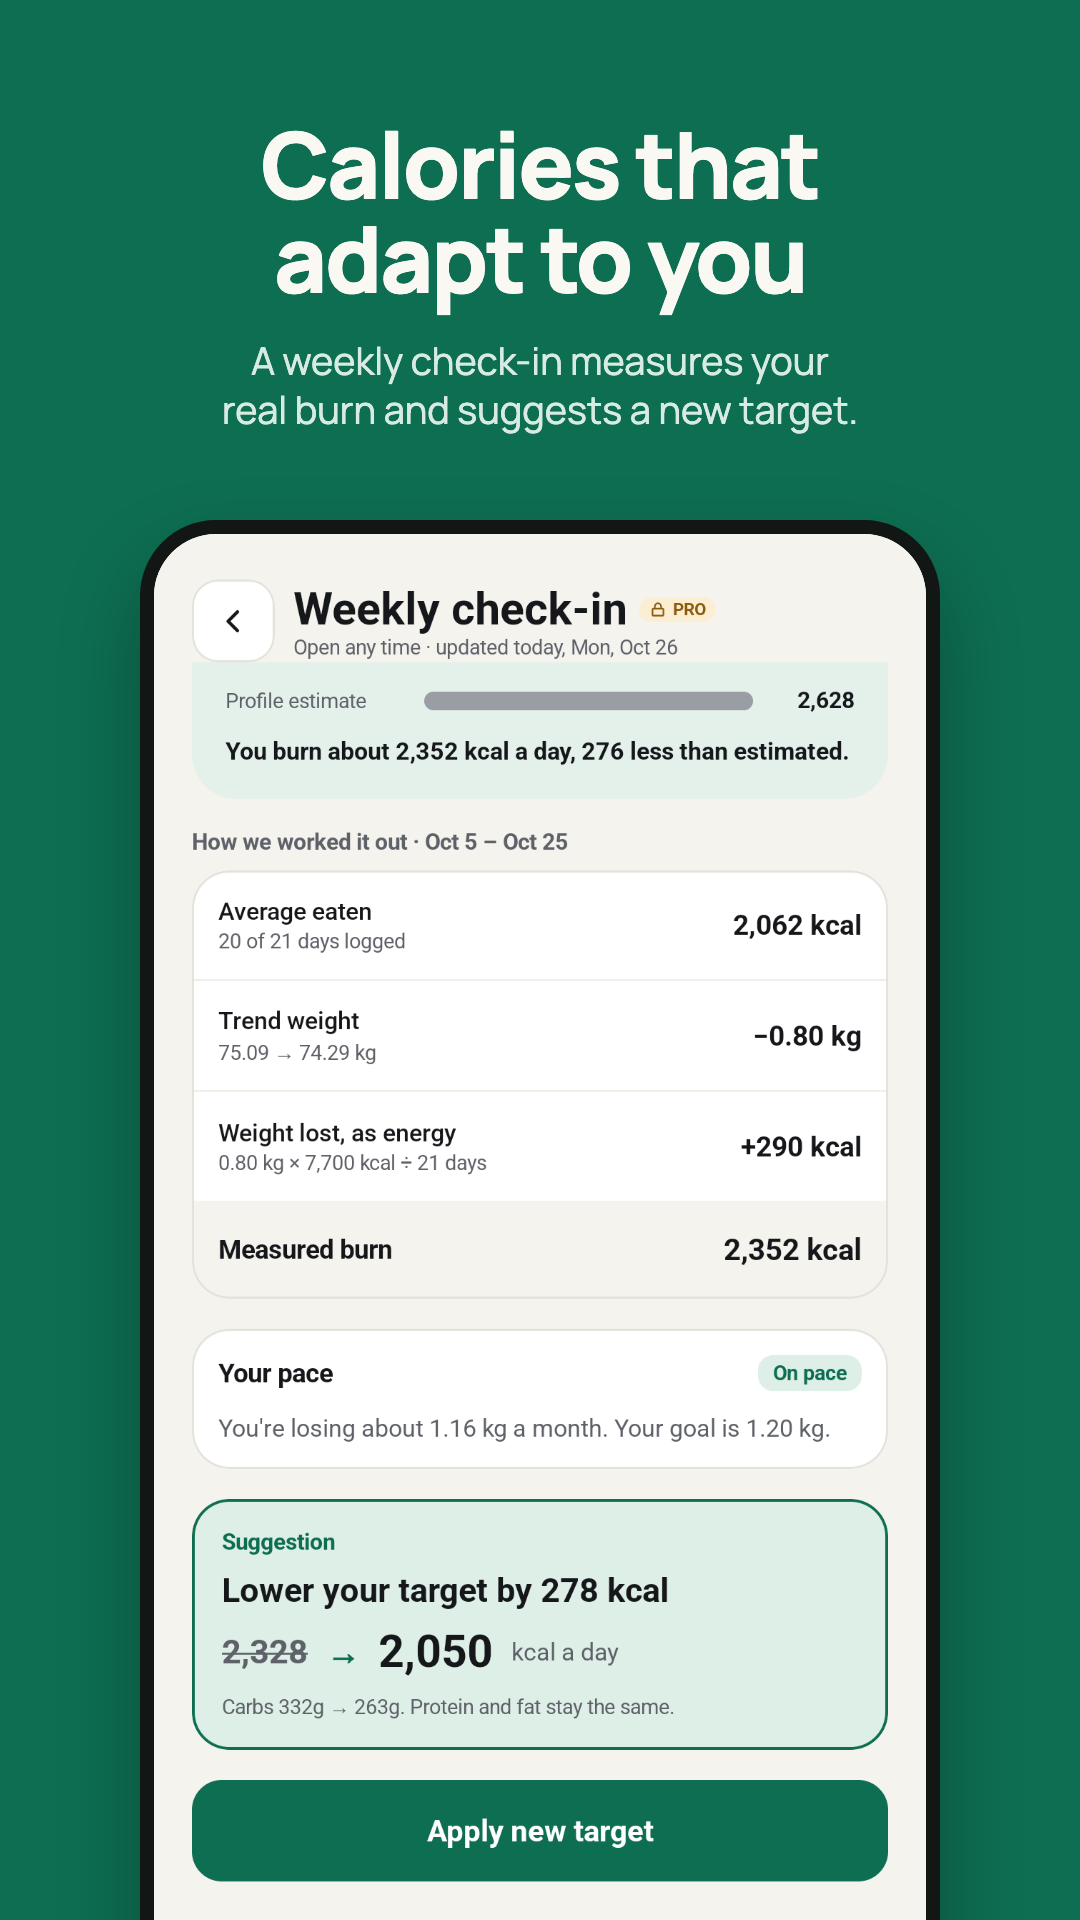
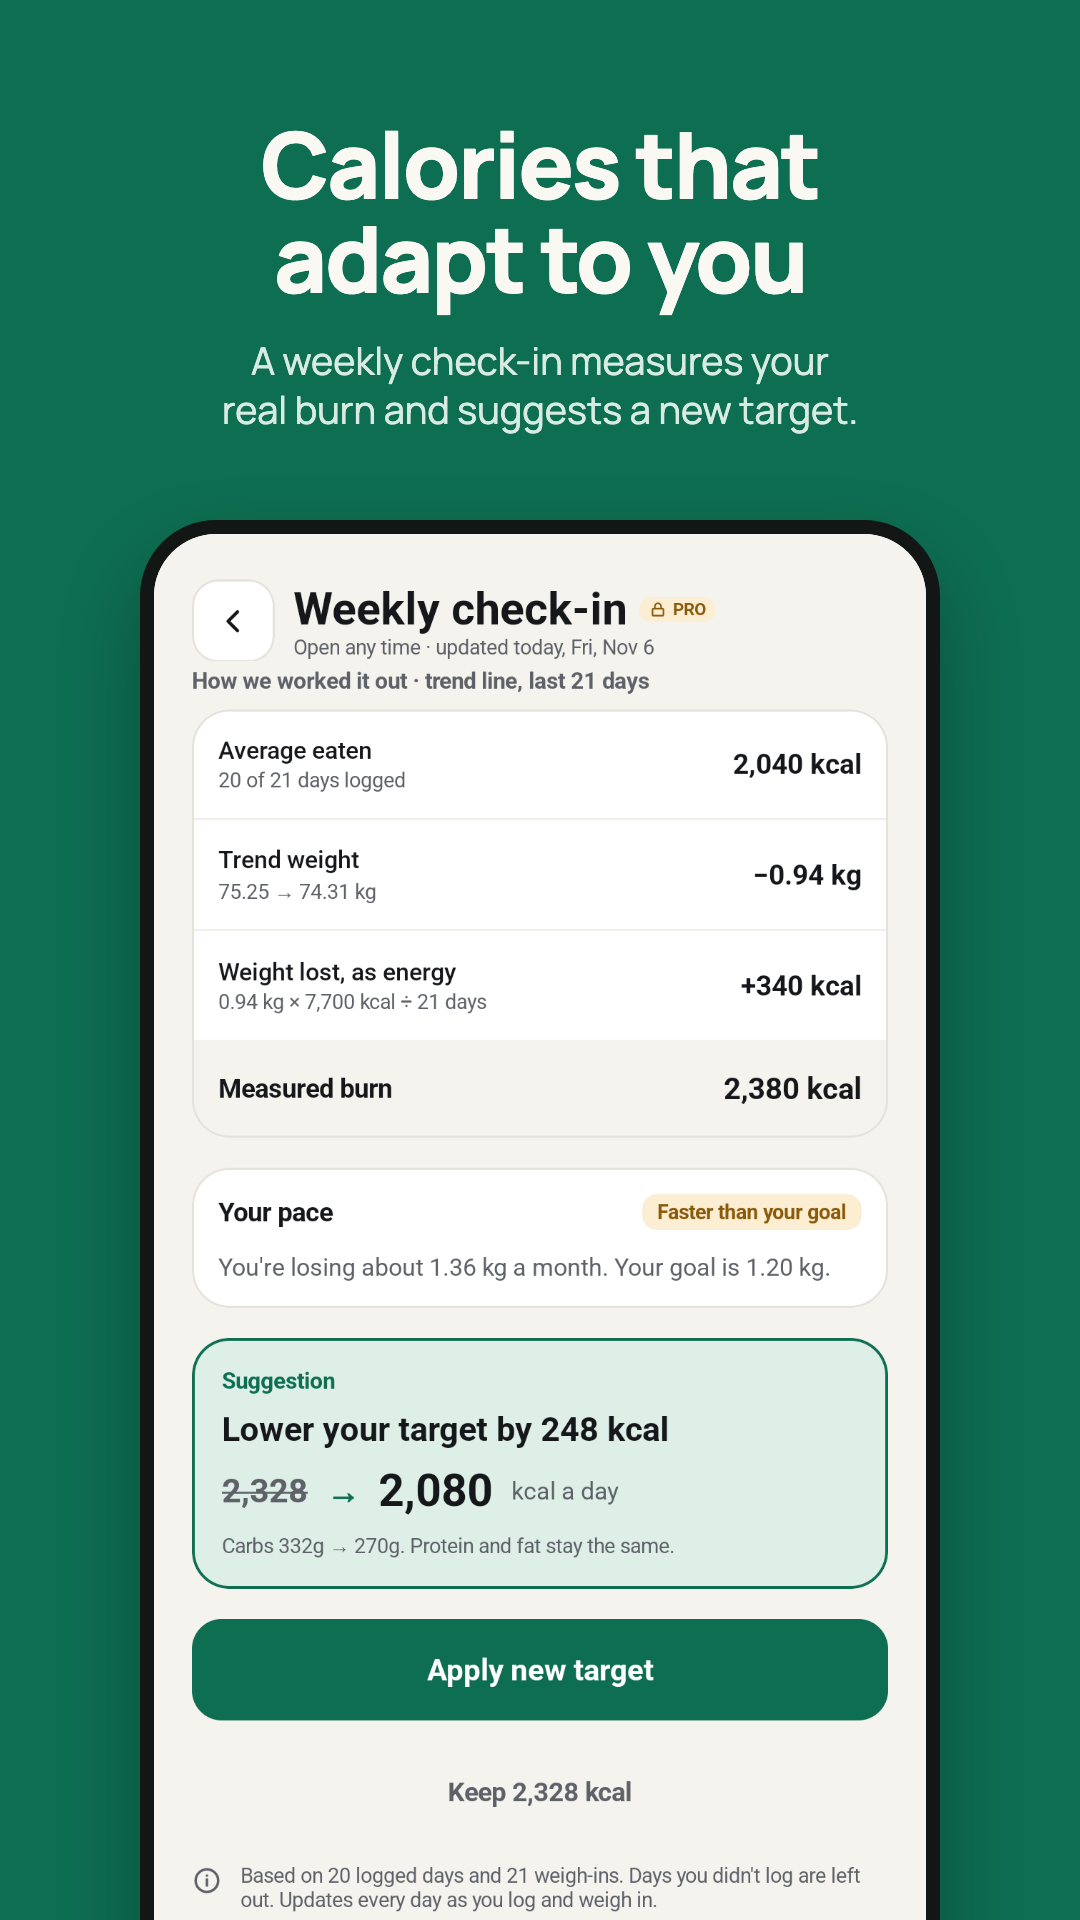
update Play Store listing description, release notes, and screenshots
- Update short and full descriptions in `listing.md` to highlight new features, including Next-day weight, Goal forecast, What fits?, widgets, and habits tracking.
- Add screenshot upload order guidelines to `listing.md`.
- Add release notes entry for updates since version 1.2.1.
- Replace old Play Store screenshot assets with updated app screens.

Changed region(s): [[0.1528, 0.3125, 0.825, 1.0]]

diff --git a/docs/play-store/listing.md b/docs/play-store/listing.md
@@ -6,67 +6,88 @@ FitMetric: Macro & Weight Log
 
 ## Short description (80 characters max)
 
-Track calories, macros and weight. Simple, private, no account needed.
+Calorie counter & macro tracker that learns your real burn. No account needed.
 
 ## Full description (4,000 characters max)
 
-FitMetric helps you hit your calorie and macro targets every day, without an account, ads or a cluttered screen. Tell it your stats and goal, and it builds your daily calories, protein, carbs and fat for you. Then log what you eat and see exactly what's left.
+FitMetric is a calorie counter and macro tracker that adapts to you. It builds your daily calories, protein, carbs and fat from your stats and goal, then learns your real calorie burn from what you eat and how your weight moves. No account, no ads, and your food log stays on your phone.
 
-Everything you log stays on your phone.
+CALORIES THAT ADAPT TO YOU
+• Weekly check-in: measures your real daily burn (TDEE) from your food log and weight trend, then suggests a new calorie target
+• Choose how fast to lose or gain weight, and your targets follow
+• This week: your calorie balance for the week, right on Today
+
+SEE WHAT DINNER DOES TO YOUR WEIGHT
+• Next-day weight shows which dinners raise or lower the next morning's weigh-in
+• See the biggest jumps, the dinners that help, and how long the effect lasts
+• A heads-up while you log a dinner that usually bumps the scale
+
+KNOW WHEN YOU'LL REACH YOUR GOAL
+• Goal forecast: a likely date for your target weight, from your real trend
+• What if: try a different daily target and see the new date
+• Pick a date and see the calories you'd need to get there
+• Add your own milestones, like a wedding or a holiday
+
+NOT SURE WHAT TO EAT? SEE WHAT FITS
+• What fits? suggests foods you already eat, at your usual amounts, that fit the calories and macros you have left
+• Filter by breakfast, lunch, dinner or snack
 
 LOG FOOD IN SECONDS
-• Scan a barcode to find packaged foods instantly
-• Search a built-in library of 290 common foods
-• Tap a recent food and it remembers the portion you had last time
-• Star your favorites for one-tap logging
-• Quick add calories or macros when you just know the numbers
-• Save your own foods and build recipes from them
-• Edit or move an entry with a tap, swipe to delete
+• Barcode scanner for packaged foods
+• Online food search, plus a built-in library of 290 common foods
+• Recent foods remember the portion you had last time
+• Favorites, quick add, custom foods and recipes
+• Copy a meal or a whole day, repeat meals, and plan tomorrow
+• Food history: every time you ate a food, and how much
 
-SEE WHAT'S LEFT, AT A GLANCE
-• Calories and protein, carbs and fat remaining for today
-• Meals split into breakfast, lunch, dinner and snacks
-• Browse any past day and see the goal you had that day
-
-TARGETS BUILT FOR YOU
-• Daily calories from your age, height, weight, activity and goal
-• Lose, maintain or gain weight, and change your goal any time
-• Your goal history is kept, so past days stay accurate
-
-BUILD A HABIT THAT STICKS
-• A logging streak on your Today screen
-• A calendar showing every logged day and every day on target
-• Monthly stats: days logged, days on target and average intake
-
-UNDERSTAND YOUR WEEK
-• Calories against your goal for each day of the week
-• Average protein, carbs and fat against your targets
+HOME SCREEN WIDGETS
+• Today, Water, Weight, Streak and Quick log widgets
+• Add water in one tap without opening the app, with undo
+• Choose the details, buttons and colours each widget shows
 
 TRACK YOUR PROGRESS
-• Log your weight and see it by week, month, 3 months or all time
-• Set a target weight and follow your progress toward it
-• Track body measurements with Pro: waist, chest, hips, arms, thighs and more
+• Weight history with a 3, 5, 7 or 10-day moving average
+• Body measurements: waist, chest, hips, arms, thighs and more
+• Progress photos with a before & after slider and photo reminders
+• Share progress cards of your week, your weight trend or your photos
 
-YOUR DATA, YOUR PHONE
+BUILD HABITS THAT STICK
+• Supplements and habits checklist with reminders and low-stock alerts
+• Water tracking with a daily goal
+• Logging streaks, a calendar of logged days and weekly insights
+• Reminders only when you forget to log a meal or weigh in
+
+YOUR DATA STAYS ON YOUR PHONE
 • No account and no sign-up
-• Your food log, weight and measurements never leave your phone
-• Back up to a file and restore it on a new phone (Pro)
-• Export your data as CSV, PDF or JSON (Pro)
+• Your food log, weight, measurements and photos stay on your phone
+• Back up to a file and restore it on a new phone
+• Export your data as CSV, PDF or JSON
 • Delete everything in one step whenever you like
-• Metric or imperial units, and light and dark themes
+• Metric or imperial units, light and dark themes
 
 FITMETRIC PRO
-Logging, goals, streaks and your full history are free, for good. Every new install includes 30 days of Pro, so you can try everything. Pro is a one-time purchase, with no subscription, and adds:
-• Moving average: the real trend behind daily weight swings
-• Goal phases: your weight chart shaded by the goal you had each day
-• Range comparison: compare any two days on a weight chart
-• Logging body measurements
-• Full insights: the monthly view, your meal split and your most-logged foods
+Logging, goals, streaks, widgets, Next-day weight and Goal forecast are free. Every new install includes 30 days of Pro. Pro is a one-time purchase, not a subscription, and adds:
+• Weekly check-in and suggested targets
+• What fits?
+• Moving average, goal phases and range comparison on weight charts
+• Body measurements and progress photos
+• Full insights
 • Unlimited recipes (free includes 20)
 • Backup, restore and export
 
 FitMetric is a tool for tracking food and weight. It isn't medical advice. If you have a medical condition, are pregnant or have a history of disordered eating, talk to a doctor before changing your diet.
 
-Barcode lookups use Open Food Facts, a free, open database of food products.
+Barcode lookups and online food search use Open Food Facts, a free, open database of food products.
 
 Privacy policy: https://dellosaneil.github.io/macrotrack-privacy/
+
+## Phone screenshots (1080 × 1920, upload in this order)
+
+1. `01-today.png` — Log it. See what's left. (light and dark)
+2. `02-weekly-check-in.png` — Calories that adapt to you
+3. `03-next-day-weight.png` — What did dinner do to your weight?
+4. `04-goal-forecast.png` — Know when you'll get there
+5. `05-what-fits.png` — Stuck on dinner? See what fits.
+6. `06-widgets.png` — Log water from your home screen
+7. `07-progress.png` — See real progress
+8. `08-habits-privacy.png` — Your habits. Your data.

diff --git a/docs/play-store/release-notes.md b/docs/play-store/release-notes.md
@@ -2,7 +2,21 @@
 
 Play Console's "What's new" box takes up to 500 characters per language. Each block below fits on its own.
 
-## Next upload (everything since 1.0.0)
+## Next upload (everything since 1.2.1)
+
+```
+New in FitMetric:
+• Next-day weight: see which dinners move tomorrow's weigh-in
+• Goal forecast: the date you'll reach your goal, plus what-ifs
+• What fits?: foods you already eat that fit what's left
+• Home screen widgets: log water in one tap, with undo
+• Supplements and habits checklist
+• Water tracking and online food search
+• Reminders only when you forget to log
+• Share progress cards, food history and check-in settings
+```
+
+## Earlier draft: everything since 1.0.0
 
 For users updating from the first release in one step.
 
